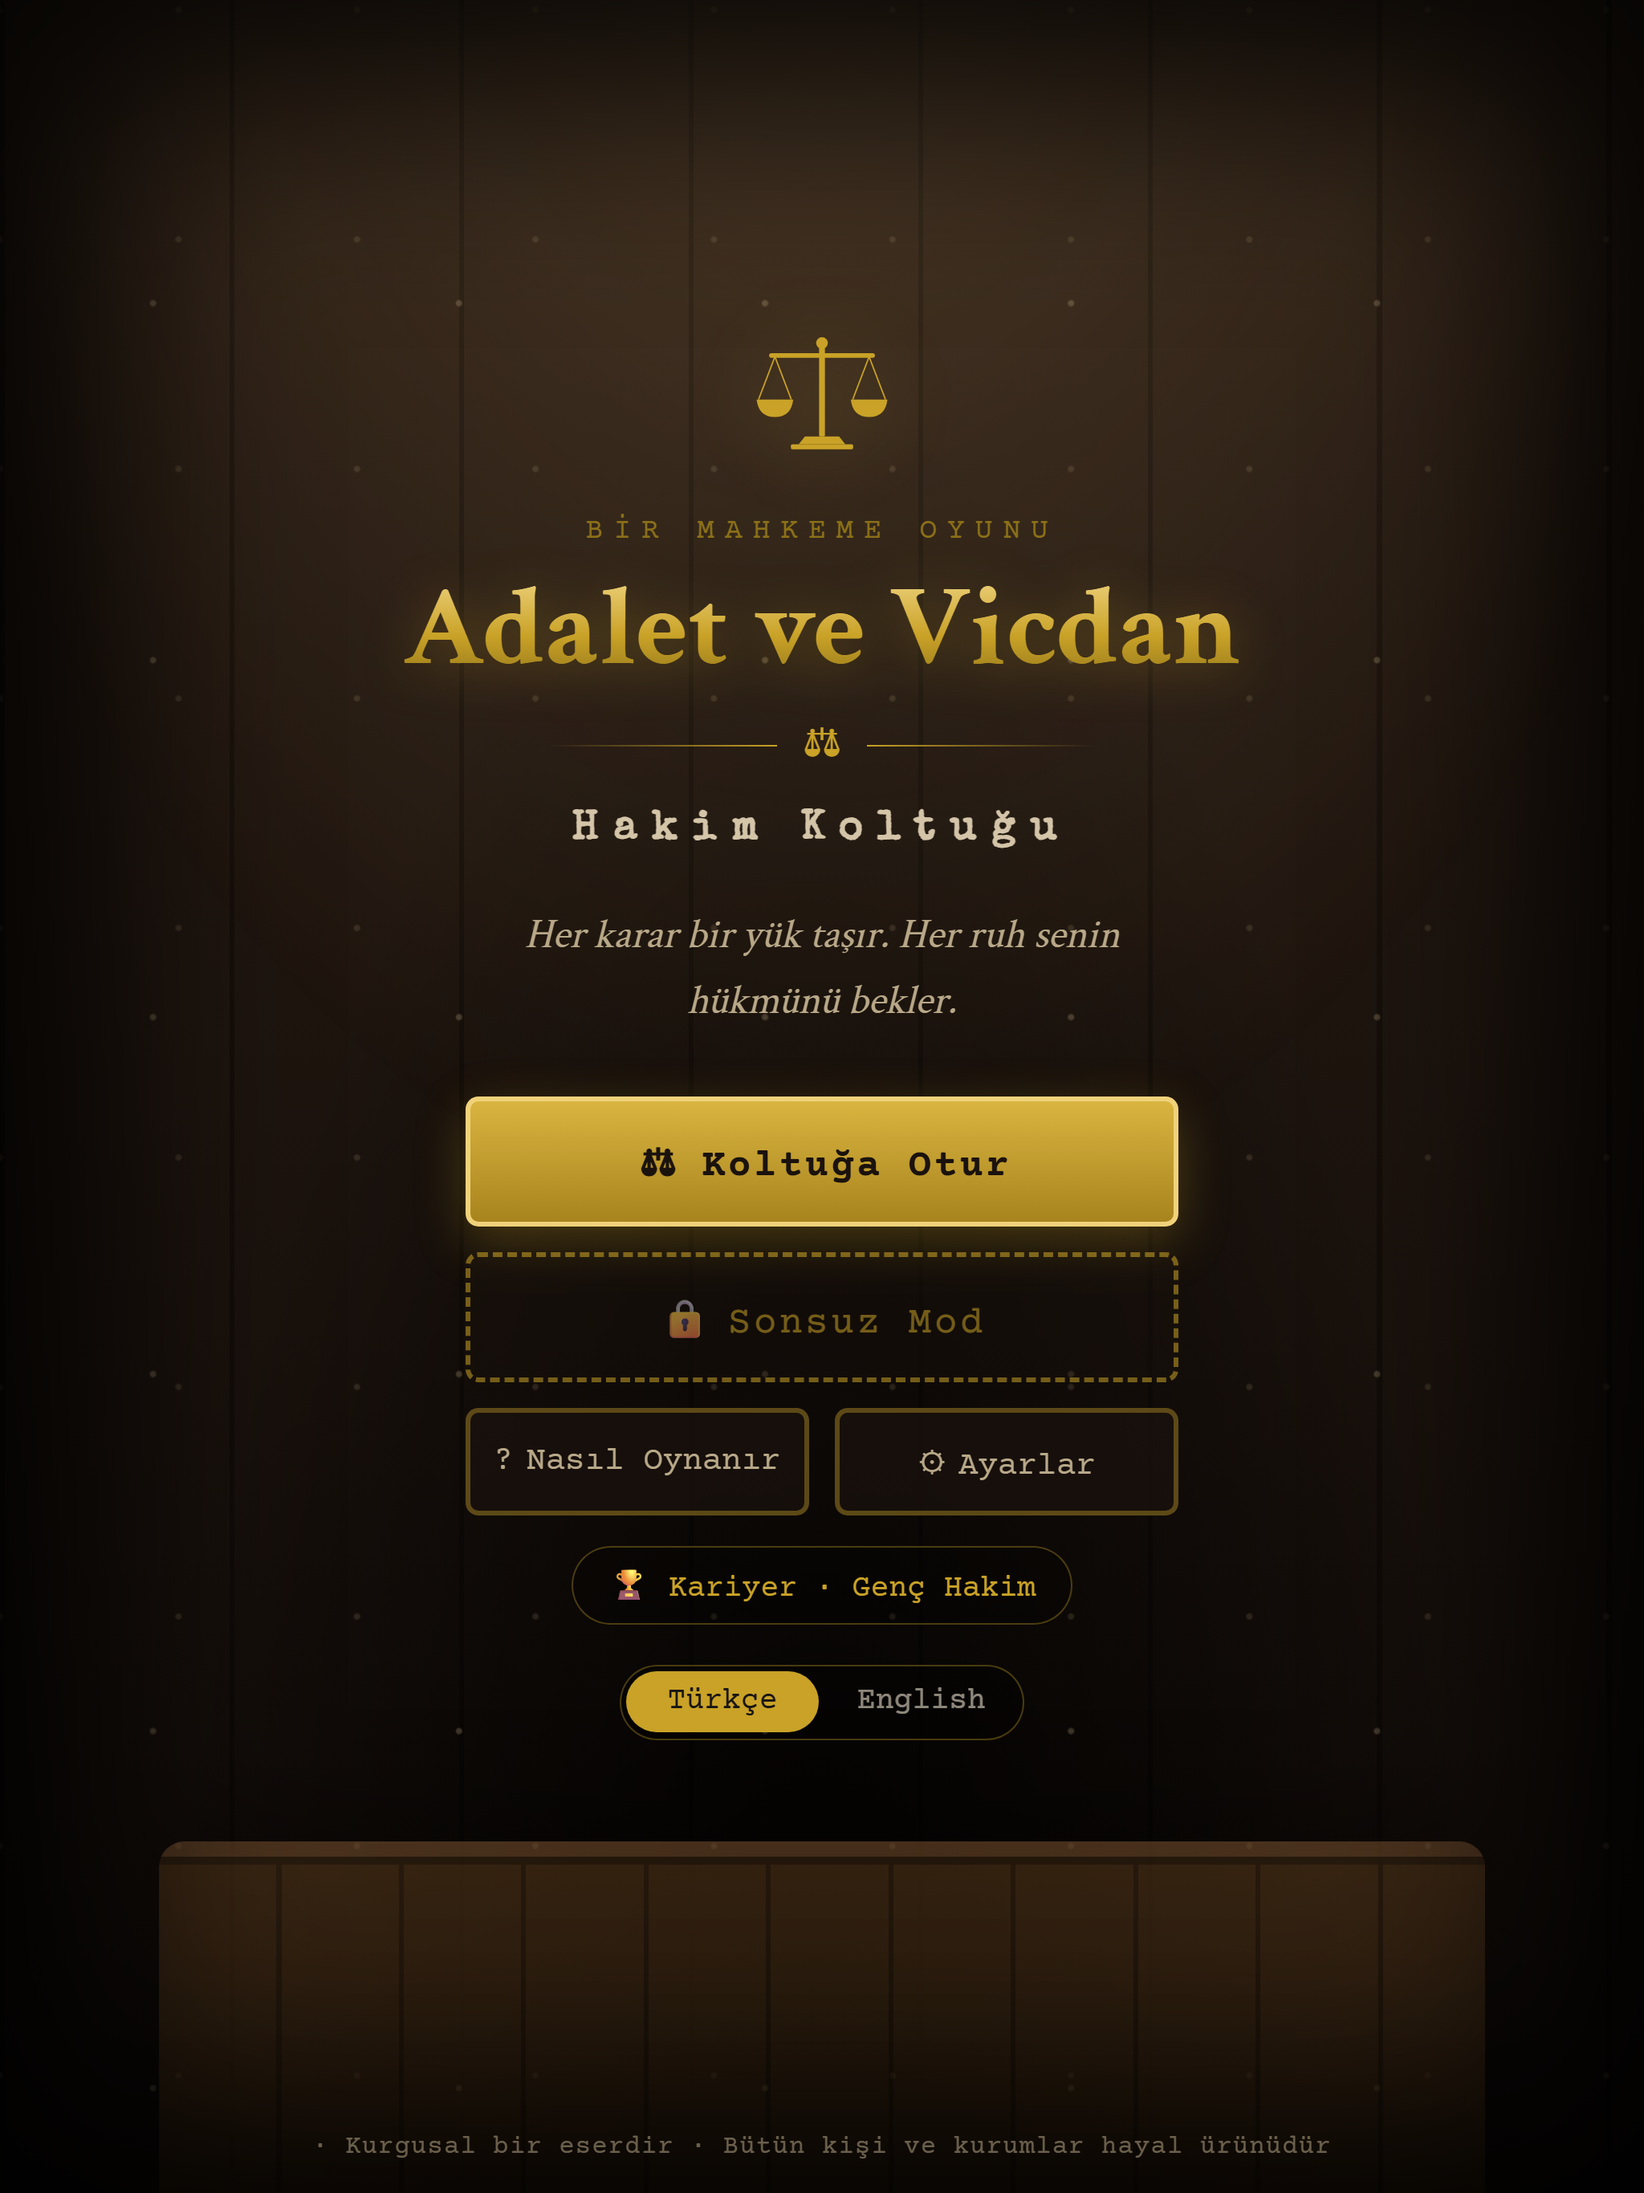
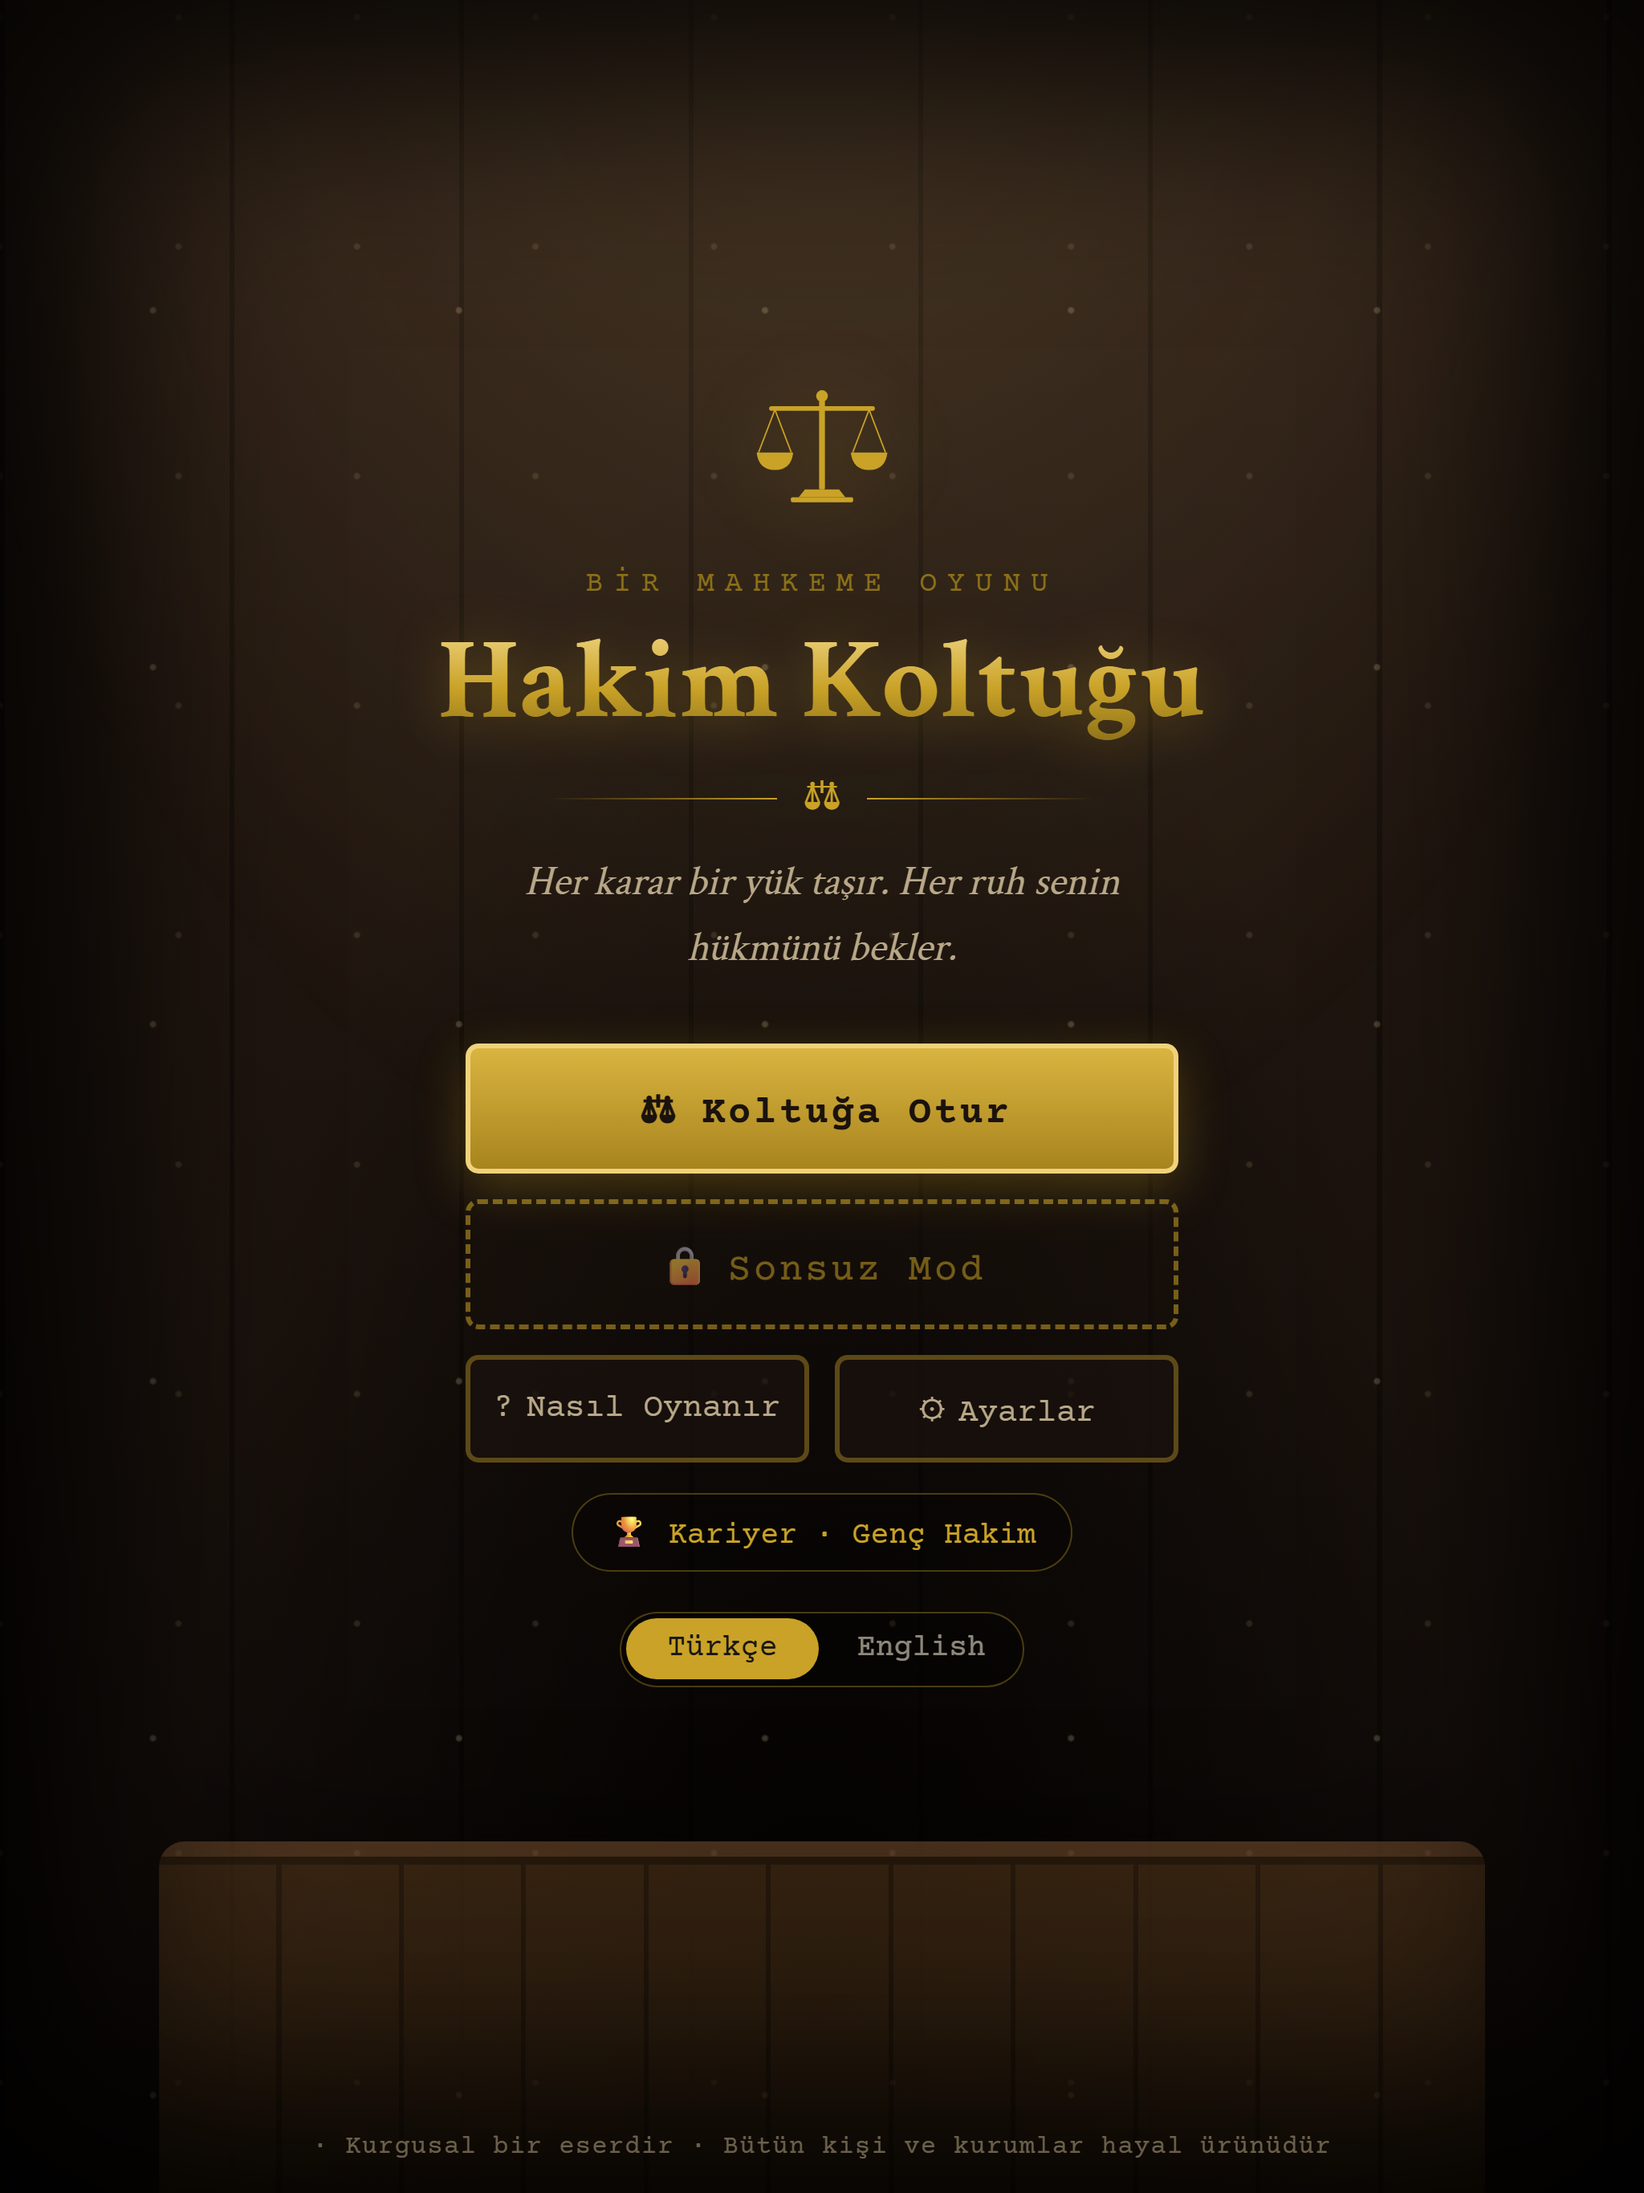
Oyunun adı her yerde Hakim Koltuğu (İngilizcesi The Judge's Seat): ana menü, telefondaki uygulama adı, gizlilik sayfası, mağaza metinleri, öne çıkan görsel ve menü ekran görüntüleri

Changed region(s): [[0.25, 0.2489, 0.75, 0.8089], [0.4688, 0.1556, 0.5312, 0.2489]]

diff --git a/docs/gizlilik.html b/docs/gizlilik.html
@@ -3,7 +3,7 @@
 <head>
     <meta charset="UTF-8">
     <meta name="viewport" content="width=device-width, initial-scale=1.0">
-    <title>Gizlilik Politikası – Adalet ve Vicdan</title>
+    <title>Gizlilik Politikası – Hakim Koltuğu</title>
     <style>
         :root {
             --bg: #f5efe2;
@@ -69,9 +69,9 @@
 <body>
     <main>
         <h1>Gizlilik Politikası</h1>
-        <p class="meta">Adalet ve Vicdan: Hakim Koltuğu · Son güncelleme: 19 Kasım 2026</p>
+        <p class="meta">Hakim Koltuğu · Son güncelleme: 19 Kasım 2026</p>
 
-        <p>Bu politika, Android ve iOS için yayınlanan "Adalet ve Vicdan: Hakim Koltuğu" oyununun (bundan sonra "Oyun") kişisel verilerle ilgili uygulamalarını açıklar.</p>
+        <p>Bu politika, Android ve iOS için yayınlanan "Hakim Koltuğu" oyununun (bundan sonra "Oyun") kişisel verilerle ilgili uygulamalarını açıklar.</p>
 
         <h2>Topladığımız veriler</h2>
         <p>Oyunun geliştiricisi olarak biz sizden hiçbir kişisel veri toplamayız, saklamayız veya satmayız. Hesap oluşturma veya giriş yapma yoktur; konum, kamera, mikrofon, rehber veya benzeri bir izin istenmez.</p>
@@ -114,9 +114,9 @@
         <hr>
 
         <h1>Privacy Policy</h1>
-        <p class="meta">Adalet ve Vicdan: Hakim Koltuğu · Last updated: 19 November 2026</p>
+        <p class="meta">The Judge's Seat (Hakim Koltuğu) · Last updated: 19 November 2026</p>
 
-        <p>This policy describes how the game "Adalet ve Vicdan: Hakim Koltuğu" / "Justice and Conscience: The Judge's Seat" (the "Game") for Android and iOS handles personal data.</p>
+        <p>This policy describes how the game "Hakim Koltuğu" / "The Judge's Seat" (the "Game") for Android and iOS handles personal data.</p>
 
         <h2>Data we collect</h2>
         <p>As the developer of the Game, we do not collect, store or sell any personal data from you. There is no account or sign-in, and the Game does not ask for location, camera, microphone, contacts or similar permissions.</p>

diff --git a/scripts/i18n/en.js b/scripts/i18n/en.js
@@ -2266,7 +2266,6 @@ export default {
     "Fırın 30 yıldır hiç ceza almamış.": "The bakery hasn't been fined once in 30 years.",
     "Gramaj neden eksik?": "Why is the weight short?",
     "Yeni çırak terazi ayarını bozmuş. Hemen düzelttim.": "The new apprentice messed up the scale. I fixed it right away.",
-    "Adalet ve Vicdan: Hakim Koltuğu": "Justice and Conscience: The Judge's Seat",
     "Gün": "Day",
     "Bakiye": "Balance",
     "İtibar": "Reputation",
@@ -2332,7 +2331,6 @@ export default {
     "Hafiften ağıra: Beraat · Para (Hafif, Orta, Ağır) · Ev hapsi · Hapis (Kısa, Orta, Uzun) · İdam": "From lightest to heaviest: Acquittal · Fine (Minor, Moderate, Heavy) · House arrest · Prison (Short, Medium, Long) · Death penalty",
     "Geçmek için dokun": "Tap to continue",
     "Bir Mahkeme Oyunu": "A Courtroom Game",
-    "Adalet ve Vicdan": "Justice and Conscience",
     "Hakim Koltuğu": "The Judge's Seat",
     "Her karar bir yük taşır. Her ruh senin hükmünü bekler.": "Every ruling carries a weight. Every soul awaits your verdict.",
     "· Kurgusal bir eserdir · Bütün kişi ve kurumlar hayal ürünüdür": "· A work of fiction · All persons and institutions are imaginary",

diff --git a/index.html b/index.html
@@ -4,7 +4,7 @@
 <head>
     <meta charset="UTF-8">
     <meta name="viewport" content="width=device-width, initial-scale=1.0, user-scalable=no, viewport-fit=cover">
-    <title>Adalet ve Vicdan: Hakim Koltuğu</title>
+    <title>Hakim Koltuğu</title>
     <meta name="description"
         content="Bir mahkeme karar oyunu. Hakim olarak kanunla vicdan arasında sanıkların kaderini belirleyin.">
     <link rel="stylesheet" href="/styles/main.css">
@@ -358,9 +358,8 @@
             <div class="menu-bench"></div>
             <div class="start-content">
                 <p class="menu-kicker">Bir Mahkeme Oyunu</p>
-                <h1 class="game-title">Adalet ve Vicdan</h1>
+                <h1 class="game-title">Hakim Koltuğu</h1>
                 <div class="menu-ornament"><span></span><i>⚖</i><span></span></div>
-                <h2 class="game-subtitle">Hakim Koltuğu</h2>
                 <p class="game-tagline">Her karar bir yük taşır. Her ruh senin hükmünü bekler.</p>
                 <div class="start-buttons">
                     <button id="continue-btn" class="typewriter-btn menu-primary hidden"></button>

diff --git a/styles/main.css b/styles/main.css
@@ -1,5 +1,5 @@
 /* ========================================
-   Justice & Conscience: The Judge's Chair
+   Hakim Koltuğu / The Judge's Seat
    Atmospheric Courtroom Styles
 ======================================== */
 
@@ -1101,14 +1101,6 @@ body {
     }
 }
 
-.game-subtitle {
-    font-family: var(--font-typewriter);
-    font-size: 1.2rem;
-    color: var(--paper-dark);
-    margin-bottom: var(--spacing-xl);
-    letter-spacing: 3px;
-}
-
 .game-tagline {
     font-family: var(--font-elegant);
     font-style: italic;
@@ -1219,10 +1211,6 @@ body {
 
     .game-title {
         font-size: 1.8rem;
-    }
-
-    .game-subtitle {
-        font-size: 1rem;
     }
 
     .bubble-header {
@@ -2022,7 +2010,6 @@ body {
 .modal-content h2,
 .letter h2,
 .rulebook-content h2,
-.game-subtitle,
 #event-title {
     font-family: var(--font-display);
 }
@@ -2486,13 +2473,6 @@ body {
 .menu-ornament i {
     font-style: normal;
     font-size: 1rem;
-}
-
-.game-subtitle {
-    font-size: 1rem;
-    letter-spacing: 6px;
-    color: var(--paper-aged);
-    margin-bottom: var(--spacing-md);
 }
 
 .game-tagline {

diff --git a/scripts/main.js b/scripts/main.js
@@ -1,6 +1,6 @@
 /**
  * Main Entry Point
- * Justice & Conscience: The Judge's Chair
+ * Hakim Koltuğu / The Judge's Seat
  */
 
 import '@fontsource/special-elite';

diff --git a/store/YAYIN-REHBERI.md b/store/YAYIN-REHBERI.md
@@ -47,7 +47,7 @@ Play Console'da **Play Uygulama İmzalama** açık kalsın (varsayılan): Google
 ## 3. Google Play Console
 
 1. Geliştirici hesabı (tek seferlik kayıt ücreti) ve kimlik doğrulaması.
-2. **Uygulama oluştur:** ad `Adalet ve Vicdan: Hakim Oyunu`, varsayılan dil Türkçe, oyun, ücretsiz.
+2. **Uygulama oluştur:** ad `Hakim Koltuğu`, varsayılan dil Türkçe, oyun, ücretsiz.
 3. **Mağaza girişi:** metinler `store/magaza-metinleri.md` dosyasında (Türkçe ve İngilizce).
    - Telefon ekran görüntüleri: `store/screenshots/tr/` ve `store/screenshots/en/` (1080×1920)
    - Öne çıkan görsel: `store/feature-graphic-tr.png`, `store/feature-graphic-en.png`
@@ -67,7 +67,7 @@ Play Console'da **Play Uygulama İmzalama** açık kalsın (varsayılan): Google
 ## 4. App Store (Mac olmadan, Codemagic ile)
 
 1. **developer.apple.com › Certificates, Identifiers & Profiles › Identifiers:** `com.vicdanlihakim.oyun` paket kimliğini ekle.
-2. **App Store Connect › Uygulamalar › +:** yeni uygulama, bu paket kimliğiyle. Ad: `Adalet ve Vicdan: Hakim Oyunu`.
+2. **App Store Connect › Uygulamalar › +:** yeni uygulama, bu paket kimliğiyle. Ad: `Hakim Koltuğu`.
 3. **App Store Connect › Kullanıcılar ve Erişim › Entegrasyonlar › App Store Connect API:** "App Manager" yetkisiyle anahtar oluştur. Issuer ID, Key ID ve `.p8` dosyasını al (dosya bir kez indirilebilir).
 4. **codemagic.io:** GitHub hesabınla giriş yap, `vicdanlihakim` deposunu ekle. **Team settings › Integrations › Developer Portal** bölümüne anahtarı ekle; adını tam olarak `app-store-connect` koy.
 5. Codemagic'te **iOS – TestFlight** iş akışını başlat. 15–20 dakikada uygulama TestFlight'a düşer; iPhone'una TestFlight'ı kurup dene. Hata olursa derleme kaydını bana gönder.

diff --git a/store/magaza-metinleri.md b/store/magaza-metinleri.md
@@ -7,9 +7,8 @@ Google Play ve App Store sayfaları için hazır metinler. Karakter sınırları
 ## Türkçe
 
 **Uygulama adı** (Google Play en fazla 30, App Store en fazla 30 karakter)
-- Önerilen: `Adalet ve Vicdan: Hakim Oyunu` (29)
-- Alternatif: `Adalet ve Vicdan` (16)
-- Not: `Adalet ve Vicdan: Hakim Koltuğu` 31 karakter, sınırı bir harf aşıyor.
+- `Hakim Koltuğu` (13)
+- Mağazada aynı ad başka bir uygulamada kullanılıyorsa: `Hakim Koltuğu: Mahkeme Oyunu` (28)
 
 **App Store alt başlığı** (30)
 `Kanun mu, vicdan mı?` (20)
@@ -59,8 +58,8 @@ Bu oyun kurgudur. Bütün kişi, yer ve kurumlar hayal ürünüdür. Suç, şidd
 ## English
 
 **App name** (30)
-- Suggested: `Justice & Conscience: Judge` (27)
-- Alternative: `Justice & Conscience` (20)
+- `The Judge's Seat` (16)
+- If that name is taken in the store: `The Judge's Seat: Court Game` (28)
 
 **App Store subtitle** (30)
 `Law or conscience?` (18)
